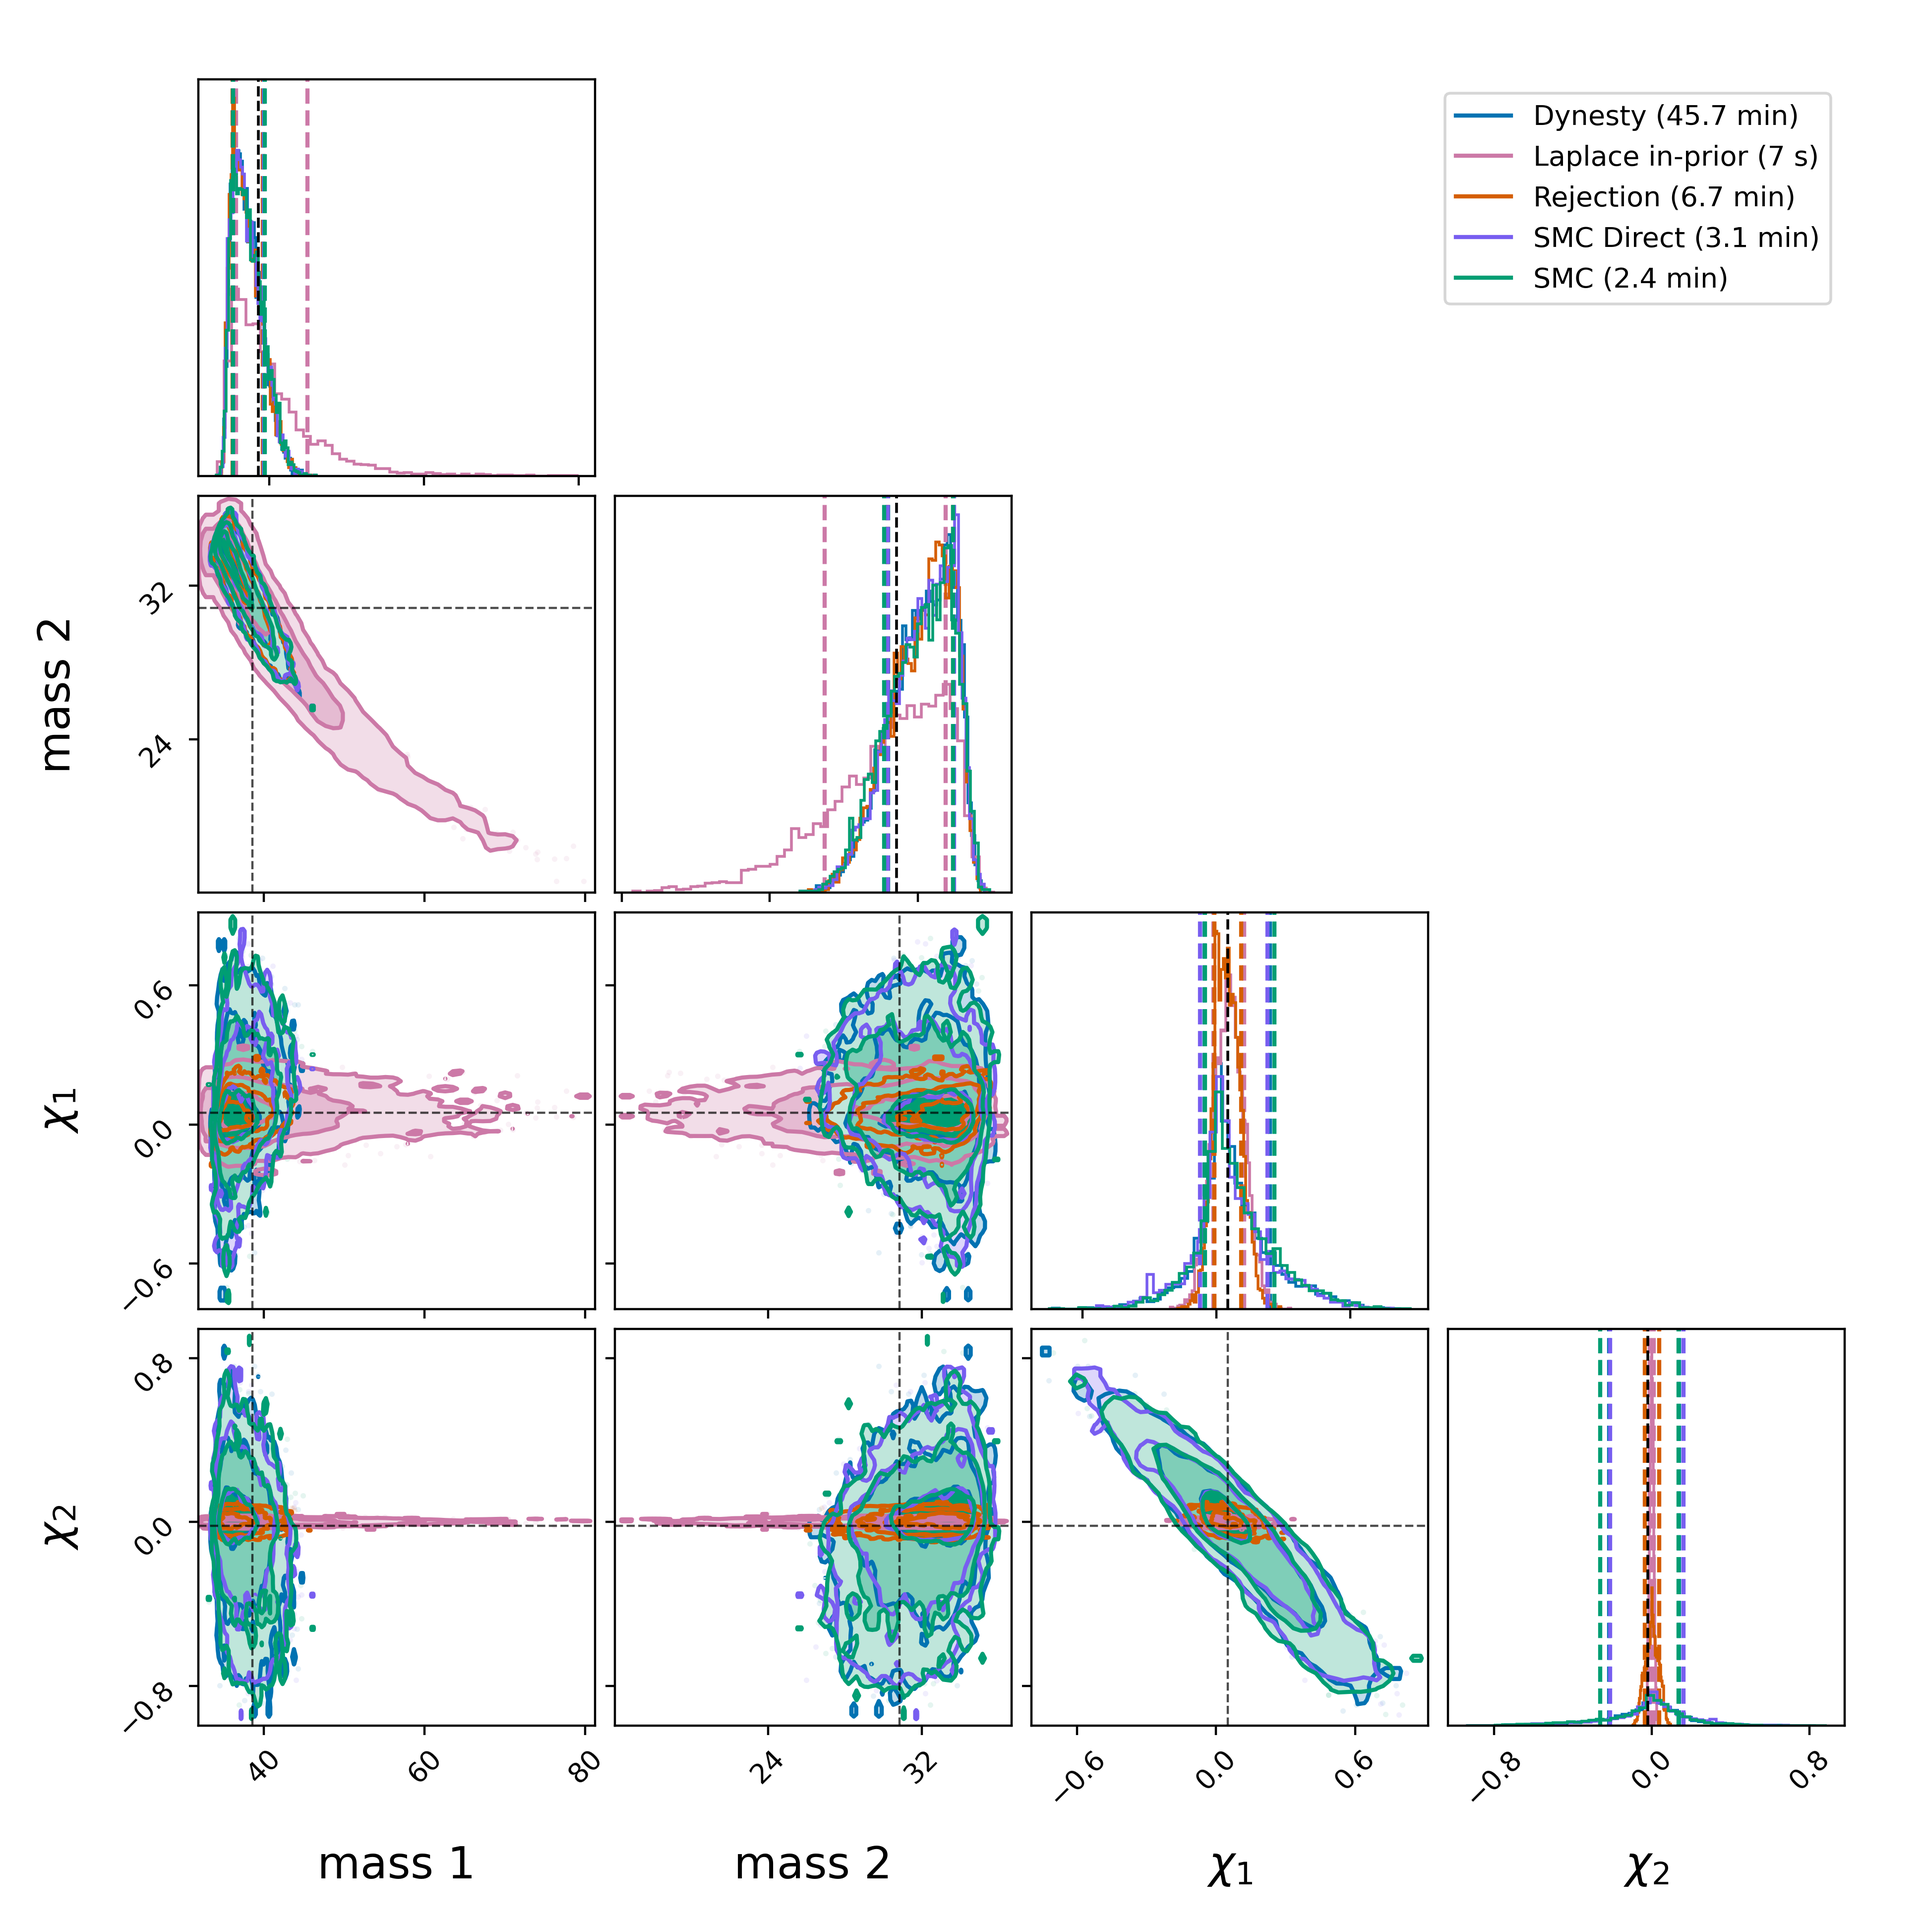
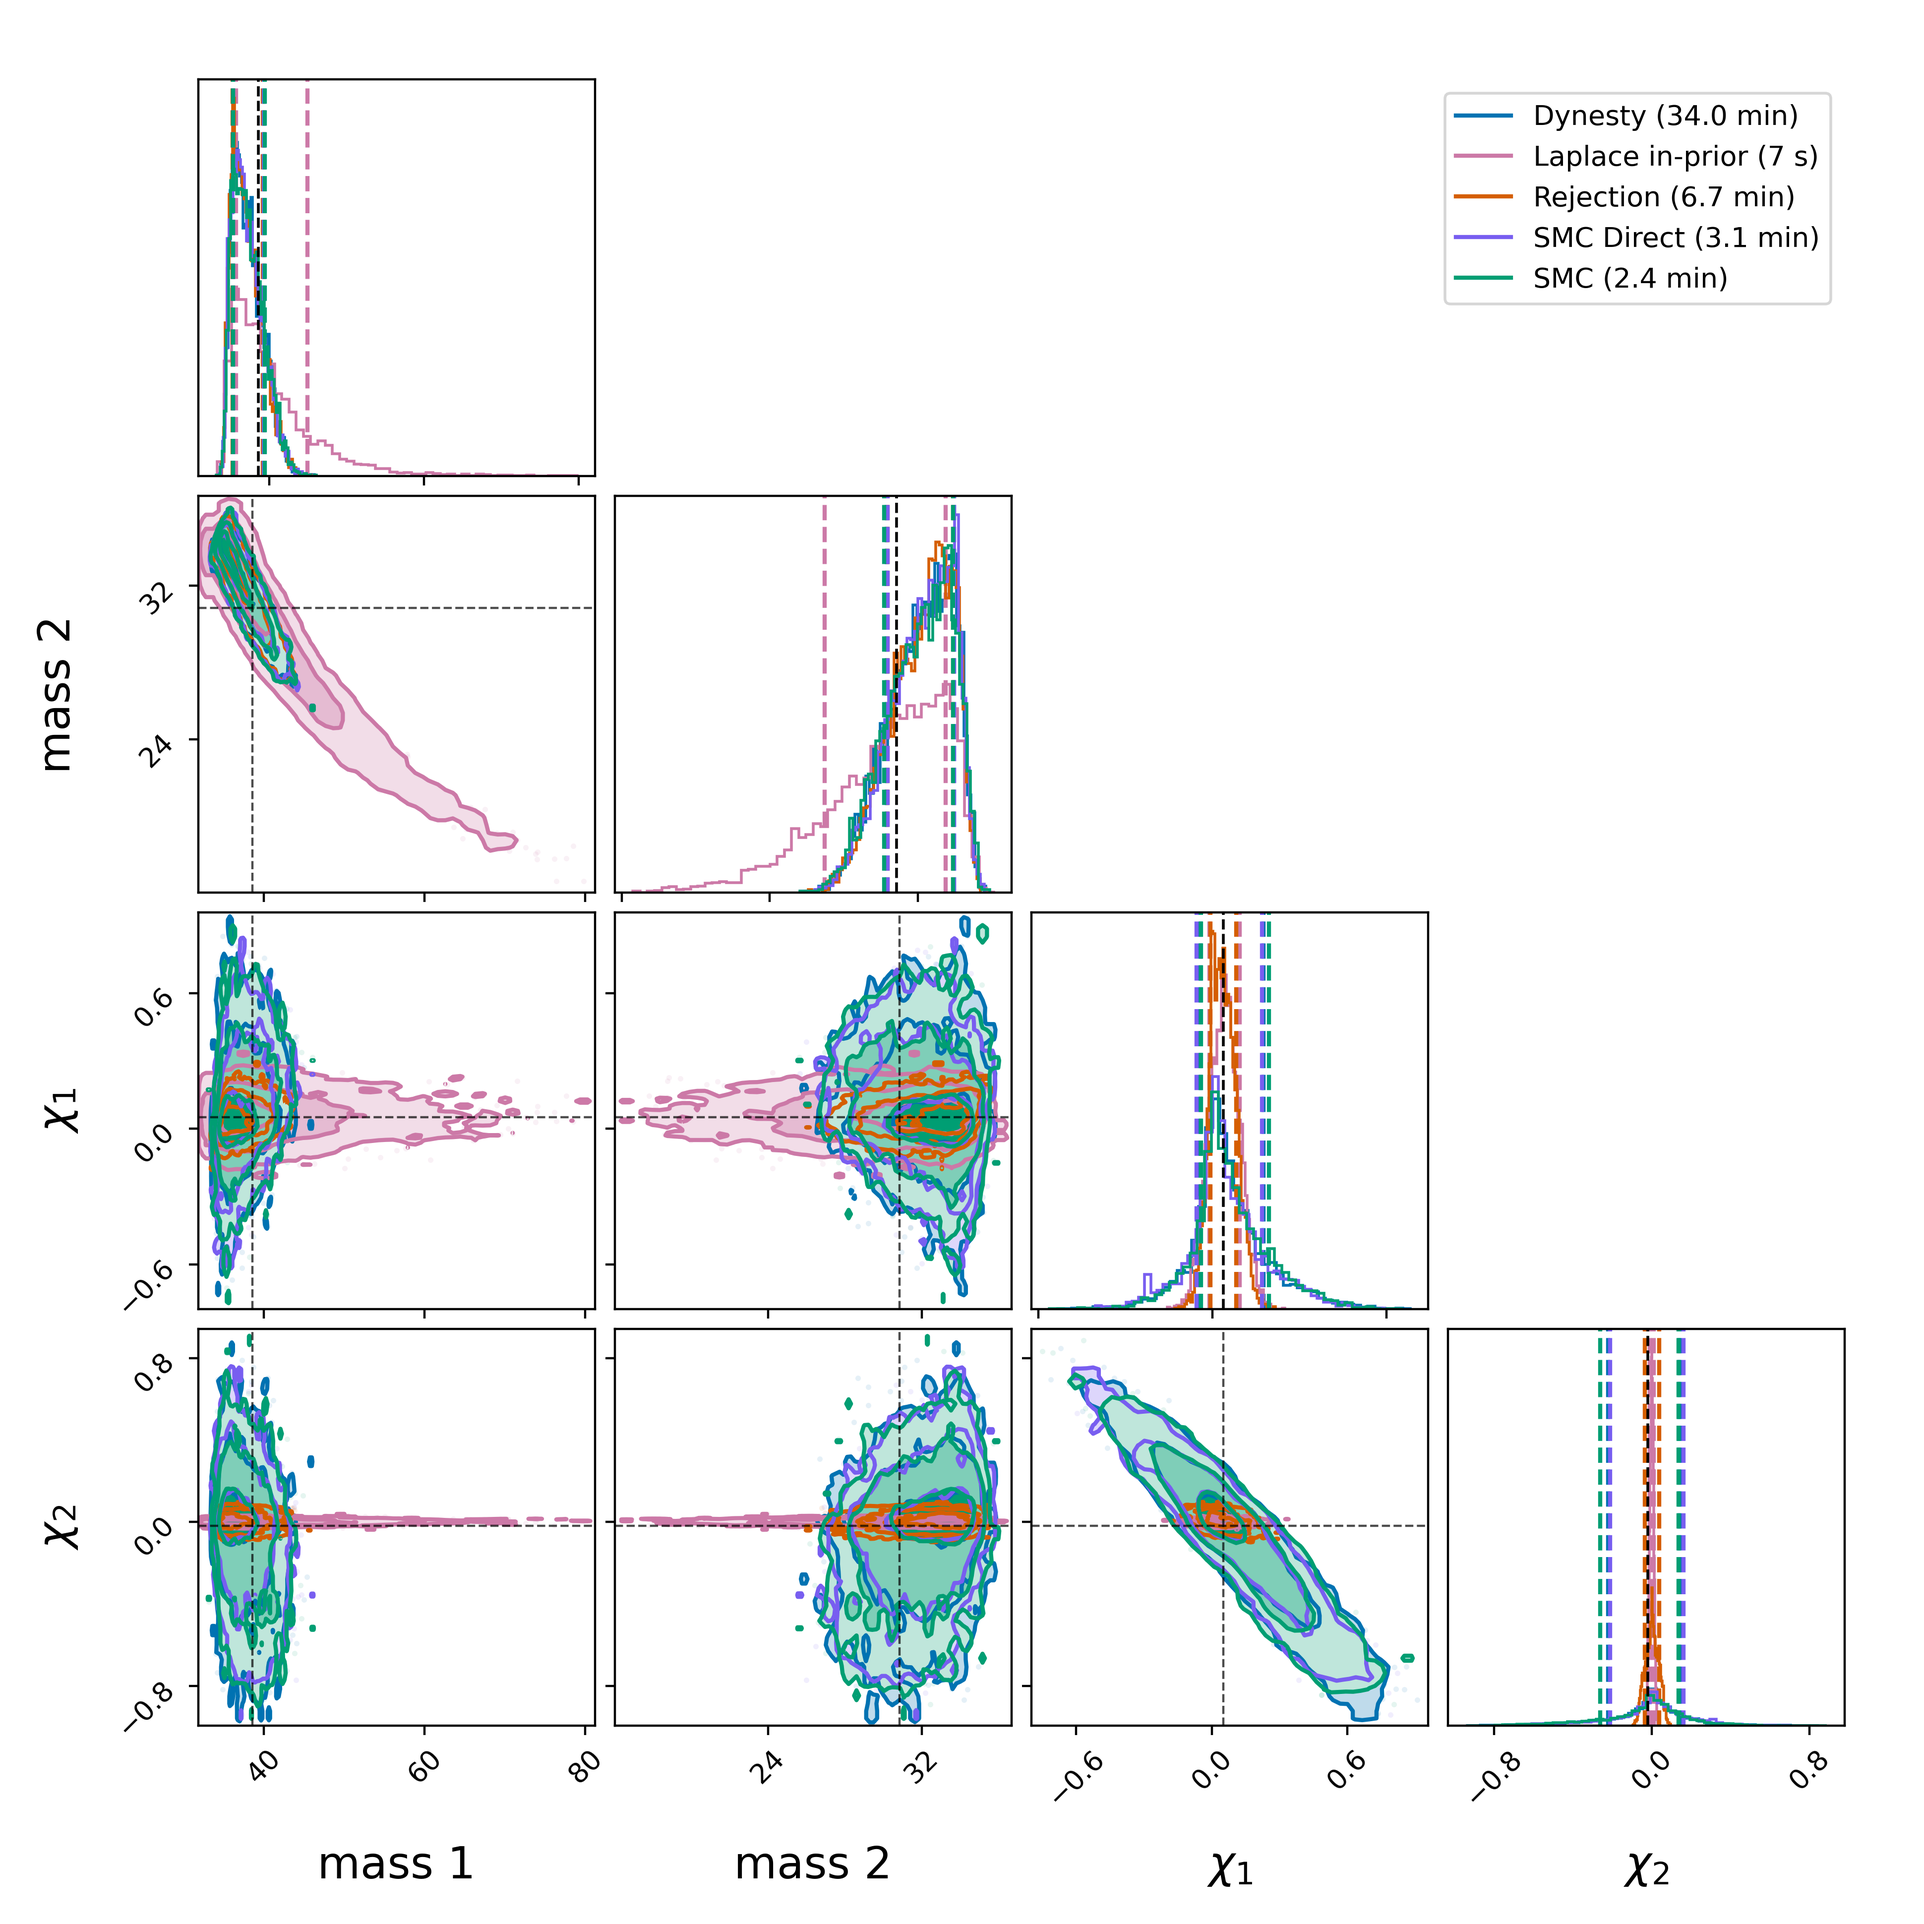
Use production dynesty settings in the BBH example too
Brings run_dynesty into step with examples/BNS_3G: sample="acceptance-walk"
with naccept=60 and maxmcmc=5000, which takes a fixed number of accepted MCMC
steps per point instead of adapting the chain length from the autocorrelation,
so cost per point is predictable and the worker pool is not left waiting on
stragglers.

BBH was not the pathological case BNS was, so the gain is smaller: 34.0 minutes
against 45.7, a 26% saving.  The evidence is unchanged within errors
(-12114.11 +/- 0.17 against the previous -12113.84 +/- 0.17), so the switch is
faster without being biased.

Against the regenerated reference, smc and smc-direct now agree with dynesty to
within 0.06 sigma in the mean and 0.05 in |log2 sd ratio| on every parameter.
smc matches the evidence to 0.01 nats using 709k likelihood evaluations against
dynesty's 11.2M.  chi_1 and chi_2 come out at sd ratios of 0.99 and 1.02 -- the
same two parameters that were 830x too narrow before the prior-precision clamp.

diff --git a/examples/BBH_HLV/run.py b/examples/BBH_HLV/run.py
@@ -306,11 +306,22 @@ def run_smc_direct(_common):
 
 
 def run_dynesty(_common):
+    """Reference run, using the settings used for production GW parameter
+    estimation.  Kept in step with examples/BNS_3G/run.py.
+
+    ``sample="acceptance-walk"`` takes a fixed ``naccept`` accepted MCMC steps
+    per point rather than adapting the chain length from the autocorrelation,
+    so the cost per point is predictable and the worker pool stays busy instead
+    of waiting on stragglers.
+    """
     return bilby.run_sampler(
         **_common,
         sampler="dynesty",
         label=f"{base_label}_dynesty",
         nlive=1000,
+        sample="acceptance-walk",
+        naccept=60,
+        maxmcmc=5000,
         check_point_delta_t=1800,
         check_point_plot=True,
         npool=16,
